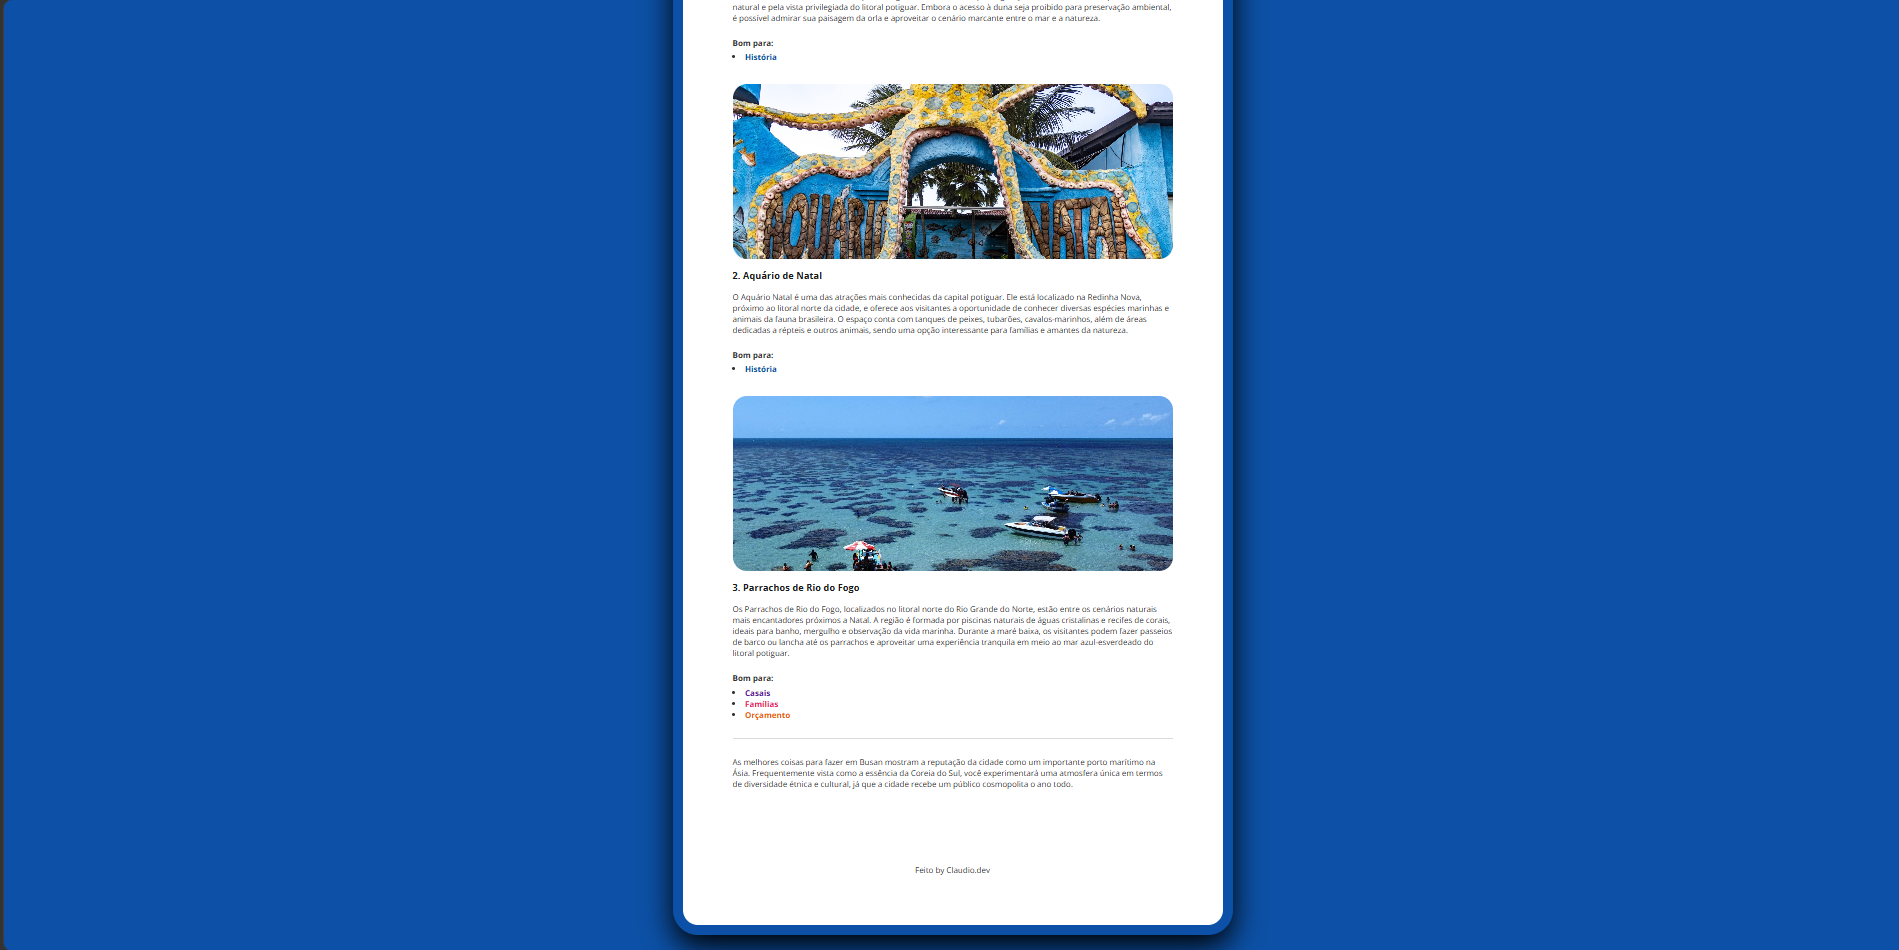
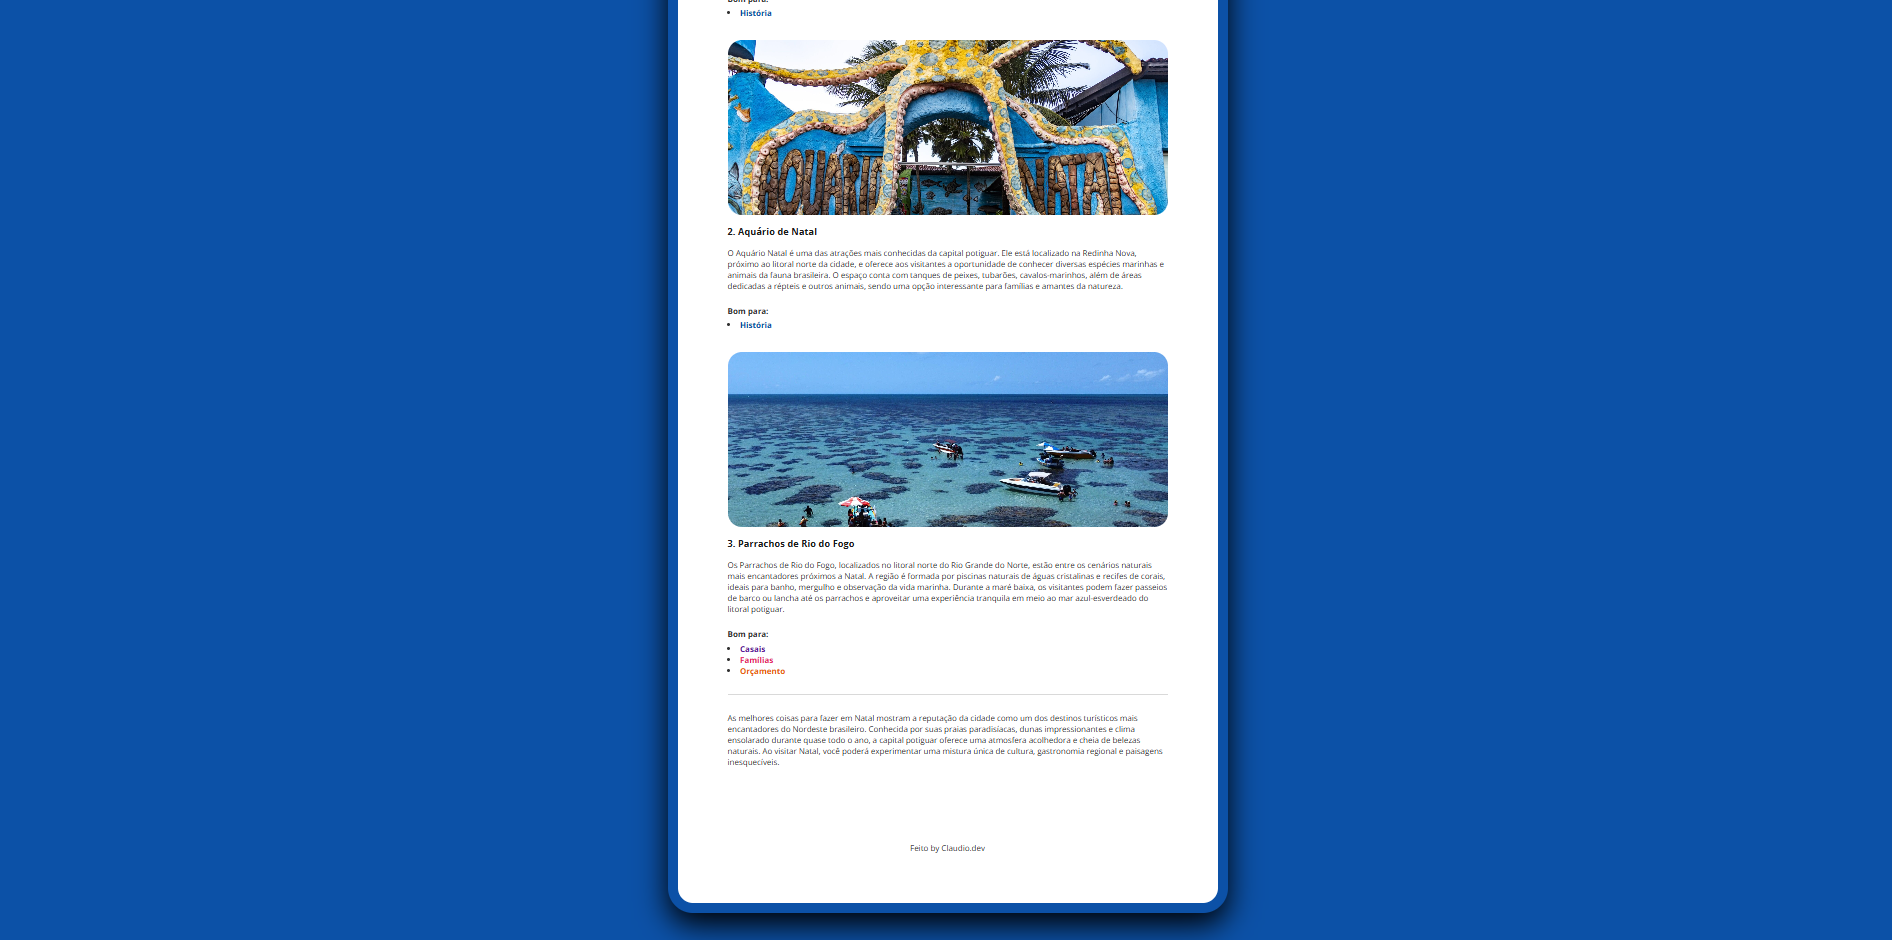
mudando texto

Changed region(s): [[0.343, 0.0, 0.6237, 0.9255], [0.343, 0.9564, 0.6549, 1.0], [0.4678, 0.8947, 0.5301, 0.9255]]

diff --git a/index.html b/index.html
@@ -106,13 +106,16 @@
         </section>
         <div class="divider"></div>
         <div>
-            <p>As melhores coisas para fazer em Busan mostram a 
-                reputação da cidade como um importante porto 
-                marítimo na Ásia. Frequentemente vista como a 
-                essência da Coreia do Sul, você experimentará uma 
-                atmosfera única em termos de diversidade étnica e 
-                cultural, já que a cidade recebe um público 
-                cosmopolita o ano todo. </p>
+            <p>As melhores coisas para fazer em Natal mostram a 
+                reputação da cidade como um dos destinos turísticos
+                 mais encantadores do Nordeste brasileiro. Conhecida
+                  por suas praias paradisíacas, dunas impressionantes
+                   e clima ensolarado durante quase todo o ano, a
+                    capital potiguar oferece uma atmosfera acolhedora
+                     e cheia de belezas naturais. Ao visitar Natal, 
+                     você poderá experimentar uma mistura única de 
+                     cultura, gastronomia regional e paisagens 
+                     inesquecíveis.</p>
         </div>
         <footer>Feito by Claudio.dev</footer>
     </main>